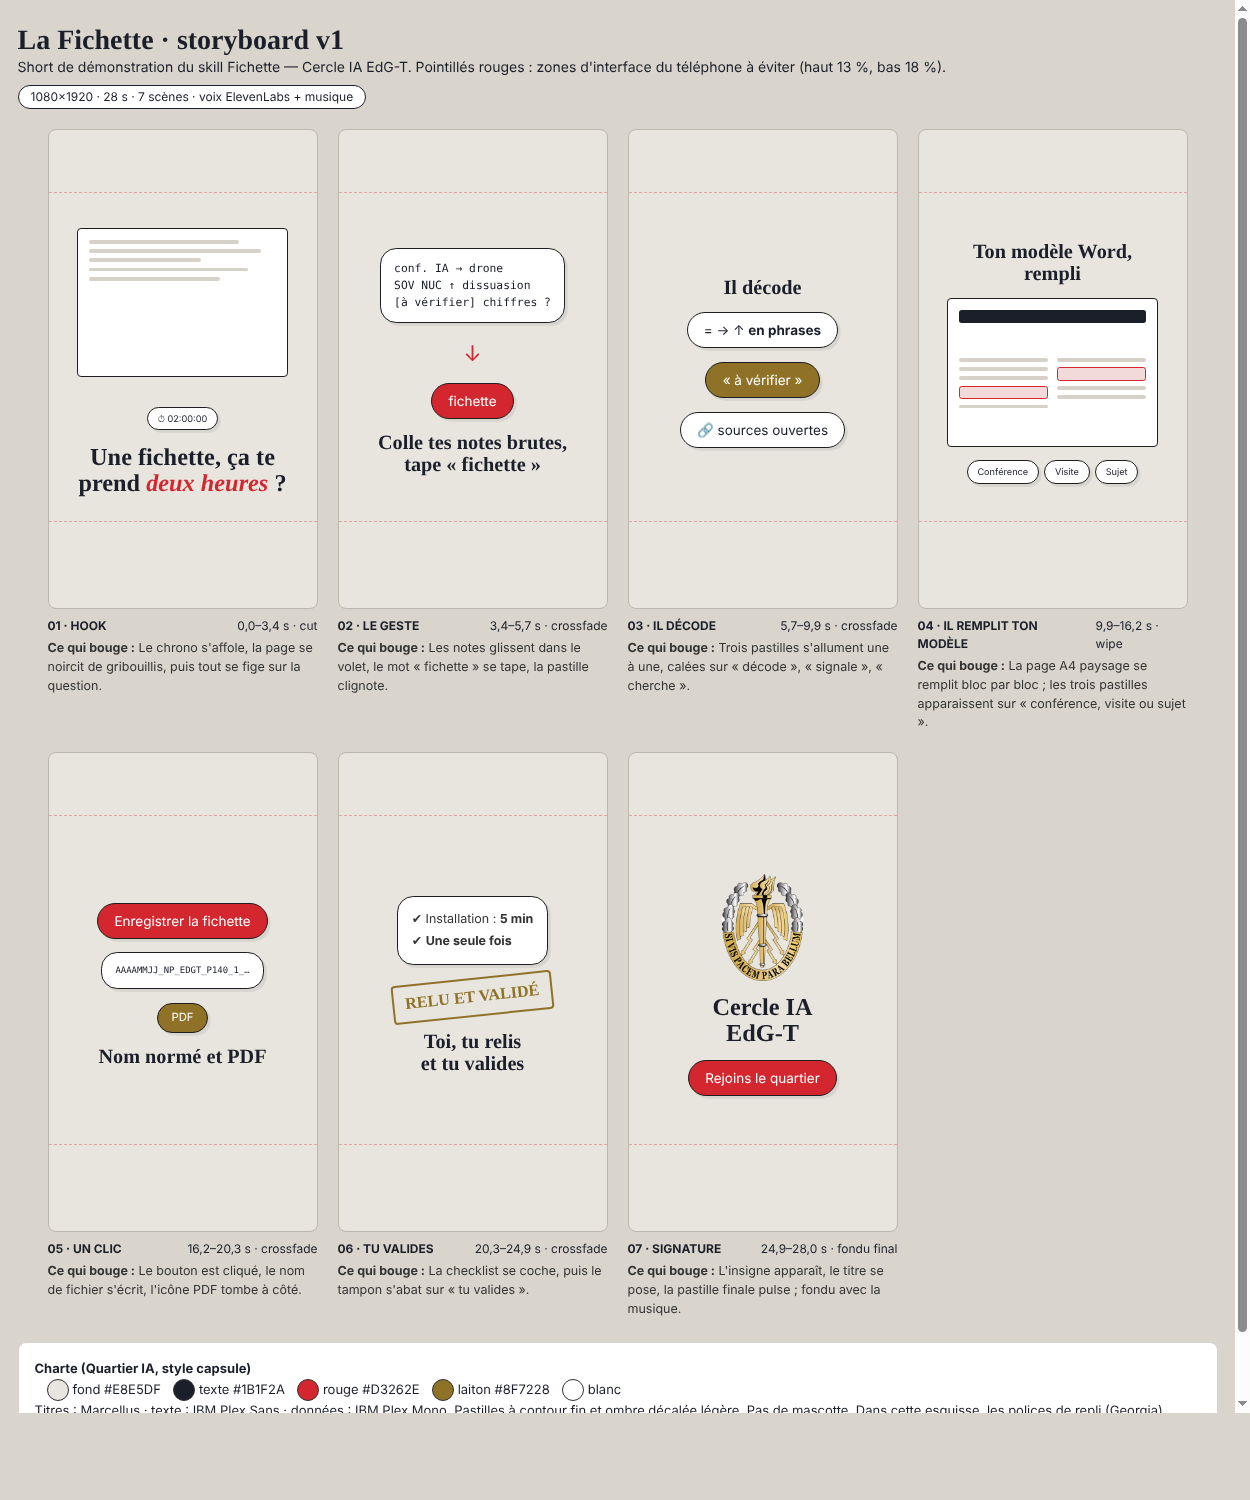
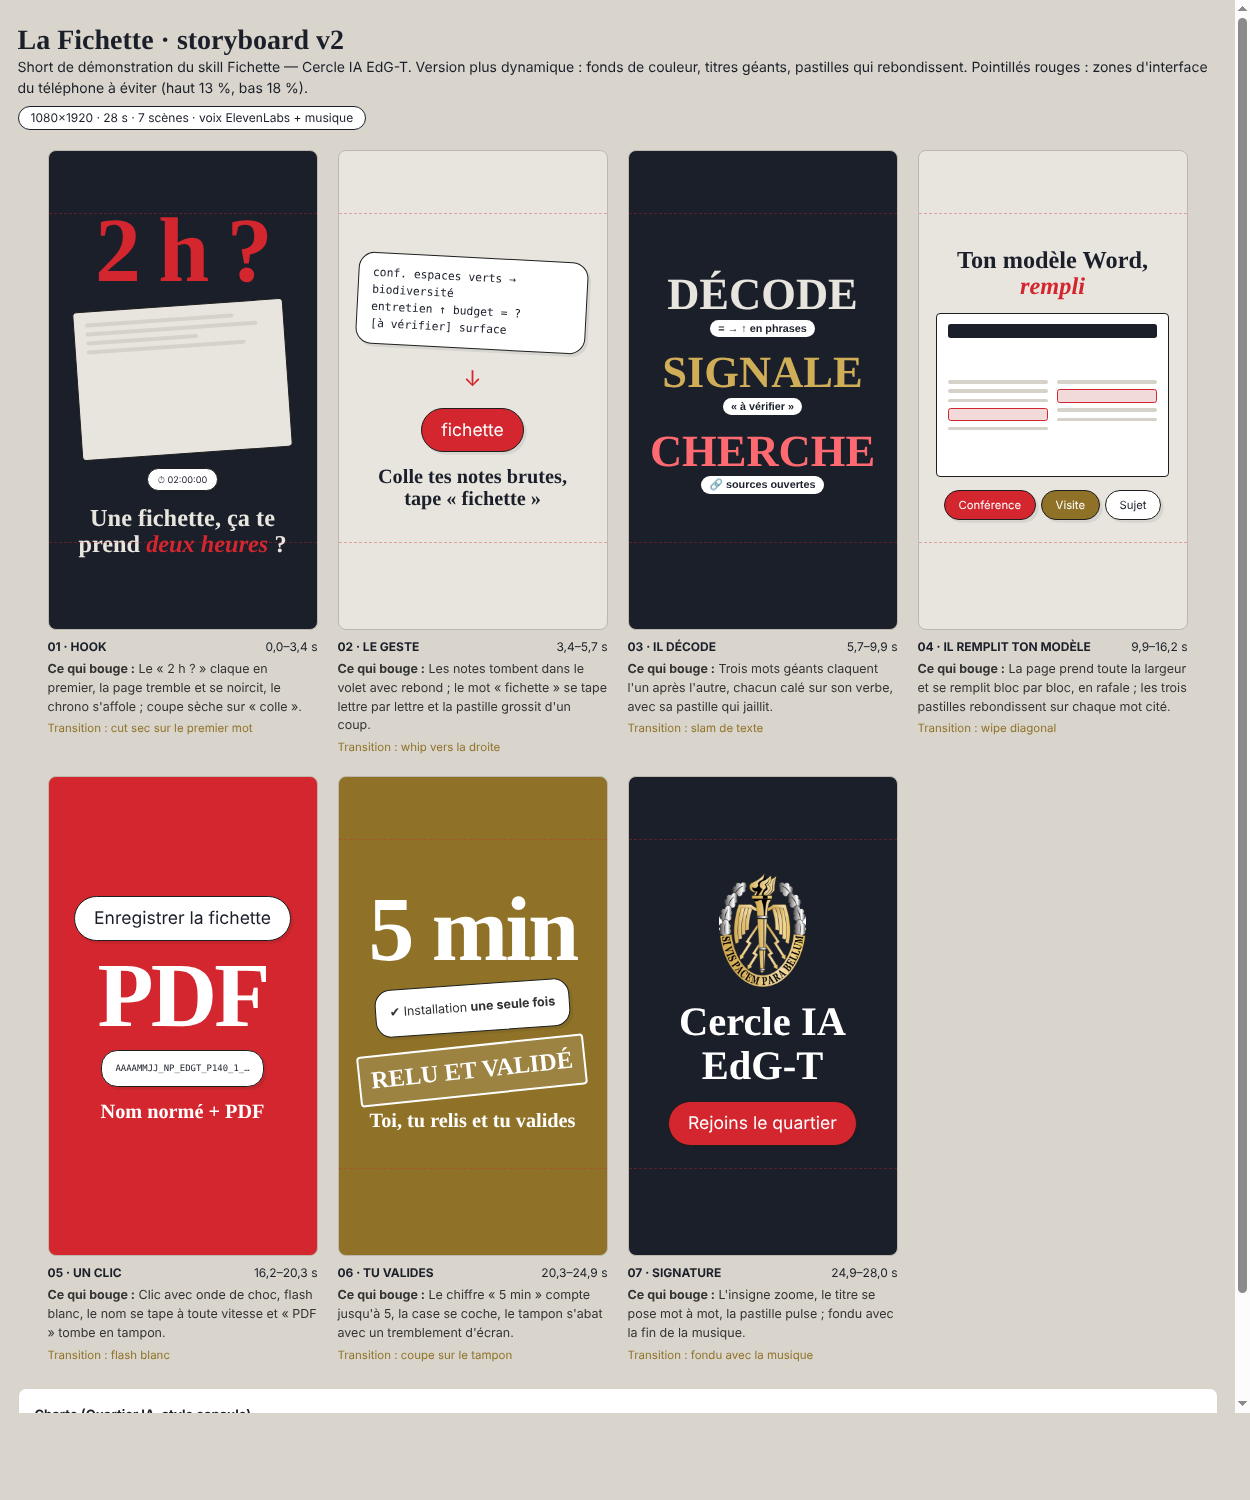
Storyboard v2 plus dynamique, notes d'exemple sur un projet d'espaces verts
Claude-Session: https://claude.ai/code/session_01DbhQfCnpLo6fAbyotZVRMm

diff --git a/videos/fichette-short/storyboard.html b/videos/fichette-short/storyboard.html
@@ -18,7 +18,11 @@ h2{font-family:Marcellus,Georgia,serif;font-weight:700;font-size:calc(9*var(--u)
 .stamp{border:calc(.8*var(--u)) solid var(--gold);color:var(--gold);padding:calc(2*var(--u)) calc(4*var(--u));font-family:Marcellus,serif;font-weight:700;font-size:calc(6*var(--u));transform:rotate(-6deg);border-radius:calc(1.5*var(--u))}
 figcaption{display:flex;justify-content:space-between;gap:8px;font-size:12px;margin-top:8px}figure p{font-size:12.5px;margin:4px 0 0;color:#333}
 .tokens{max-width:1200px;margin:24px auto 0;background:#fff;border:1px solid var(--line);border-radius:8px;padding:16px;font-size:13px}.sw{display:inline-block;width:22px;height:22px;border-radius:50%;border:1px solid #333;vertical-align:middle;margin:0 4px 0 12px}
-</style>
-<header><h1>La Fichette · storyboard v1</h1><div>Short de démonstration du skill Fichette — Cercle IA EdG-T. Pointillés rouges : zones d'interface du téléphone à éviter (haut 13 %, bas 18 %).</div><span class="tag">1080×1920 · 28 s · 7 scènes · voix ElevenLabs + musique</span></header>
-<div class="grid"><figure id="frame-01"><div class="cell"><div class="safe"></div><div class="a4"><i style="width:80%"></i><i style="width:92%"></i><i style="width:60%"></i><i style="width:85%"></i><i style="width:70%"></i></div><div class="pill sm" style="margin-top:calc(6*var(--u))">⏱ 02:00:00</div><h2>Une fichette, ça te prend <em>deux heures</em> ?</h2></div><figcaption><span><b>01 · HOOK</b></span><span>0,0–3,4 s · cut</span></figcaption><p><b>Ce qui bouge :</b> Le chrono s'affole, la page se noircit de gribouillis, puis tout se fige sur la question.</p></figure><figure id="frame-02"><div class="cell"><div class="safe"></div><div class="card mono">conf. IA → drone<br>SOV NUC ↑ dissuasion<br>[à vérifier] chiffres ?</div><div class="arrow">↓</div><div class="pill red lg">fichette</div><h2 class="s">Colle tes notes brutes,<br>tape « fichette »</h2></div><figcaption><span><b>02 · LE GESTE</b></span><span>3,4–5,7 s · crossfade</span></figcaption><p><b>Ce qui bouge :</b> Les notes glissent dans le volet, le mot « fichette » se tape, la pastille clignote.</p></figure><figure id="frame-03"><div class="cell"><div class="safe"></div><h2 class="s">Il décode</h2><div class="pill lg">= → ↑ <b>en phrases</b></div><div class="pill lg gold">« à vérifier »</div><div class="pill lg">🔗 sources ouvertes</div></div><figcaption><span><b>03 · IL DÉCODE</b></span><span>5,7–9,9 s · crossfade</span></figcaption><p><b>Ce qui bouge :</b> Trois pastilles s'allument une à une, calées sur « décode », « signale », « cherche ».</p></figure><figure id="frame-04"><div class="cell"><div class="safe"></div><h2 class="s">Ton modèle Word,<br>rempli</h2><div class="a4 two"><b></b><div class="col"><i></i><i></i><i></i><i class="box"></i><i></i></div><div class="col"><i></i><i class="box"></i><i></i><i></i></div></div><div class="row"><span class="pill sm">Conférence</span><span class="pill sm">Visite</span><span class="pill sm">Sujet</span></div></div><figcaption><span><b>04 · IL REMPLIT TON MODÈLE</b></span><span>9,9–16,2 s · wipe</span></figcaption><p><b>Ce qui bouge :</b> La page A4 paysage se remplit bloc par bloc ; les trois pastilles apparaissent sur « conférence, visite ou sujet ».</p></figure><figure id="frame-05"><div class="cell"><div class="safe"></div><div class="pill red lg">Enregistrer la fichette</div><div class="card mono sm">AAAAMMJJ_NP_EDGT_P140_1_…</div><div class="pill gold">PDF</div><h2 class="s">Nom normé et PDF</h2></div><figcaption><span><b>05 · UN CLIC</b></span><span>16,2–20,3 s · crossfade</span></figcaption><p><b>Ce qui bouge :</b> Le bouton est cliqué, le nom de fichier s'écrit, l'icône PDF tombe à côté.</p></figure><figure id="frame-06"><div class="cell"><div class="safe"></div><div class="card"><p>✔ Installation : <b>5 min</b></p><p>✔ <b>Une seule fois</b></p></div><div class="stamp">RELU ET VALIDÉ</div><h2 class="s">Toi, tu relis<br>et tu valides</h2></div><figcaption><span><b>06 · TU VALIDES</b></span><span>20,3–24,9 s · crossfade</span></figcaption><p><b>Ce qui bouge :</b> La checklist se coche, puis le tampon s'abat sur « tu valides ».</p></figure><figure id="frame-07"><div class="cell"><div class="safe"></div><img src="public/logo-edg.png" alt="insigne EdG" style="width:calc(30*var(--u))"><h2>Cercle IA<br>EdG-T</h2><div class="pill red lg">Rejoins le quartier</div></div><figcaption><span><b>07 · SIGNATURE</b></span><span>24,9–28,0 s · fondu final</span></figcaption><p><b>Ce qui bouge :</b> L'insigne apparaît, le titre se pose, la pastille finale pulse ; fondu avec la musique.</p></figure></div>
-<section class="tokens"><b>Charte (Quartier IA, style capsule)</b><br><span class="sw" style="background:#E8E5DF"></span>fond #E8E5DF<span class="sw" style="background:#1B1F2A"></span>texte #1B1F2A<span class="sw" style="background:#D3262E"></span>rouge #D3262E<span class="sw" style="background:#8F7228"></span>laiton #8F7228<span class="sw" style="background:#fff"></span>blanc<br>Titres : Marcellus · texte : IBM Plex Sans · données : IBM Plex Mono. Pastilles à contour fin et ombre décalée légère. Pas de mascotte. Dans cette esquisse, les polices de repli (Georgia) remplacent Marcellus ; le rendu final utilisera les vraies polices.</section></html>
+.cell.ink{background:#1B1F2A;color:#E8E5DF}.cell.red{background:#D3262E;color:#fff}.cell.gold{background:#8F7228;color:#fff}.cell.cream{background:#E8E5DF}
+.cell.ink h2,.cell.red h2,.cell.gold h2{color:#E8E5DF}h2.w{color:#fff!important}.giant{font-family:Marcellus,Georgia,serif;font-weight:800;font-size:calc(34*var(--u));line-height:.9;letter-spacing:-.03em}.giant.r{color:#D3262E}.giant.w{color:#fff}
+.slam{font-family:Marcellus,Georgia,serif;font-weight:800;font-size:calc(16.5*var(--u));line-height:1;color:#E8E5DF;display:flex;flex-direction:column;align-items:center}.slam small{font:600 calc(4*var(--u)) 'IBM Plex Sans',sans-serif;background:#fff;color:#1B1F2A;border-radius:99px;padding:calc(1*var(--u)) calc(3*var(--u));margin-top:calc(1*var(--u))}.slam.g{color:#D0AE57}.slam.r{color:#ff6a70}
+.pill.xl{font-size:calc(6.5*var(--u));padding:calc(3*var(--u)) calc(7*var(--u))}.pill.white{background:#fff;color:#1B1F2A}h2.xl{font-size:calc(15*var(--u))}.stamp.big{font-size:calc(9*var(--u));background:rgba(255,255,255,.12);color:#fff;border-color:#fff}
+.tilt{transform:rotate(-4deg)}.tilt2{transform:rotate(3deg)}.a4.big{width:calc(86*var(--u))}.seam{color:#8F7228!important;font-size:11.5px!important}.cell.ink .a4{background:#E8E5DF}
+.pill,.card{color:#1B1F2A}.pill.red,.pill.gold{color:#fff}</style>
+<header><h1>La Fichette · storyboard v2</h1><div>Short de démonstration du skill Fichette — Cercle IA EdG-T. Version plus dynamique : fonds de couleur, titres géants, pastilles qui rebondissent. Pointillés rouges : zones d'interface du téléphone à éviter (haut 13 %, bas 18 %).</div><span class="tag">1080×1920 · 28 s · 7 scènes · voix ElevenLabs + musique</span></header>
+<div class="grid"><figure id="frame-01"><div class="cell ink"><div class="safe"></div><div class="giant r">2 h&nbsp;?</div><div class="a4 tilt"><i style="width:80%"></i><i style="width:92%"></i><i style="width:60%"></i><i style="width:85%"></i></div><div class="pill sm">⏱ 02:00:00</div><h2>Une fichette, ça te prend <em>deux heures</em>&nbsp;?</h2></div><figcaption><span><b>01 · HOOK</b></span><span>0,0–3,4 s</span></figcaption><p><b>Ce qui bouge :</b> Le « 2 h ? » claque en premier, la page tremble et se noircit, le chrono s'affole ; coupe sèche sur « colle ».</p><p class="seam">Transition : cut sec sur le premier mot</p></figure><figure id="frame-02"><div class="cell cream"><div class="safe"></div><div class="card mono tilt2">conf. espaces verts → biodiversité<br>entretien ↑ budget = ?<br>[à vérifier] surface</div><div class="arrow">↓</div><div class="pill red xl">fichette</div><h2 class="s">Colle tes notes brutes,<br>tape « fichette »</h2></div><figcaption><span><b>02 · LE GESTE</b></span><span>3,4–5,7 s</span></figcaption><p><b>Ce qui bouge :</b> Les notes tombent dans le volet avec rebond ; le mot « fichette » se tape lettre par lettre et la pastille grossit d'un coup.</p><p class="seam">Transition : whip vers la droite</p></figure><figure id="frame-03"><div class="cell ink"><div class="safe"></div><div class="slam">DÉCODE<small>= → ↑ en phrases</small></div><div class="slam g">SIGNALE<small>« à vérifier »</small></div><div class="slam r">CHERCHE<small>🔗 sources ouvertes</small></div></div><figcaption><span><b>03 · IL DÉCODE</b></span><span>5,7–9,9 s</span></figcaption><p><b>Ce qui bouge :</b> Trois mots géants claquent l'un après l'autre, chacun calé sur son verbe, avec sa pastille qui jaillit.</p><p class="seam">Transition : slam de texte</p></figure><figure id="frame-04"><div class="cell cream"><div class="safe"></div><h2>Ton modèle Word, <em>rempli</em></h2><div class="a4 two big"><b></b><div class="col"><i></i><i></i><i></i><i class="box"></i><i></i></div><div class="col"><i></i><i class="box"></i><i></i><i></i></div></div><div class="row"><span class="pill red">Conférence</span><span class="pill gold">Visite</span><span class="pill">Sujet</span></div></div><figcaption><span><b>04 · IL REMPLIT TON MODÈLE</b></span><span>9,9–16,2 s</span></figcaption><p><b>Ce qui bouge :</b> La page prend toute la largeur et se remplit bloc par bloc, en rafale ; les trois pastilles rebondissent sur chaque mot cité.</p><p class="seam">Transition : wipe diagonal</p></figure><figure id="frame-05"><div class="cell red"><div class="safe"></div><div class="pill xl white">Enregistrer la fichette</div><div class="giant w">PDF</div><div class="card mono sm">AAAAMMJJ_NP_EDGT_P140_1_…</div><h2 class="w s">Nom normé + PDF</h2></div><figcaption><span><b>05 · UN CLIC</b></span><span>16,2–20,3 s</span></figcaption><p><b>Ce qui bouge :</b> Clic avec onde de choc, flash blanc, le nom se tape à toute vitesse et « PDF » tombe en tampon.</p><p class="seam">Transition : flash blanc</p></figure><figure id="frame-06"><div class="cell gold"><div class="safe"></div><div class="giant w">5 min</div><div class="card tilt"><p>✔ Installation <b>une seule fois</b></p></div><div class="stamp big">RELU ET VALIDÉ</div><h2 class="w s">Toi, tu relis et tu valides</h2></div><figcaption><span><b>06 · TU VALIDES</b></span><span>20,3–24,9 s</span></figcaption><p><b>Ce qui bouge :</b> Le chiffre « 5 min » compte jusqu'à 5, la case se coche, le tampon s'abat avec un tremblement d'écran.</p><p class="seam">Transition : coupe sur le tampon</p></figure><figure id="frame-07"><div class="cell ink"><div class="safe"></div><img src="public/logo-edg.png" alt="insigne EdG" style="width:calc(32*var(--u))"><h2 class="w xl">Cercle IA<br>EdG-T</h2><div class="pill red xl">Rejoins le quartier</div></div><figcaption><span><b>07 · SIGNATURE</b></span><span>24,9–28,0 s</span></figcaption><p><b>Ce qui bouge :</b> L'insigne zoome, le titre se pose mot à mot, la pastille pulse ; fondu avec la fin de la musique.</p><p class="seam">Transition : fondu avec la musique</p></figure></div><section class="tokens"><b>Charte (Quartier IA, style capsule)</b><br><span class="sw" style="background:#E8E5DF"></span>fond #E8E5DF<span class="sw" style="background:#1B1F2A"></span>texte #1B1F2A<span class="sw" style="background:#D3262E"></span>rouge #D3262E<span class="sw" style="background:#8F7228"></span>laiton #8F7228<span class="sw" style="background:#fff"></span>blanc<br>Titres : Marcellus · texte : IBM Plex Sans · données : IBM Plex Mono. Pastilles à contour fin et ombre décalée légère. Pas de mascotte. Dans cette esquisse, les polices de repli (Georgia) remplacent Marcellus ; le rendu final utilisera les vraies polices.</section></html>

diff --git a/videos/fichette-short/STORYBOARD.md b/videos/fichette-short/STORYBOARD.md
@@ -25,7 +25,7 @@ narrativeRole: Nommer la corvée que tout le monde connaît. keyMessage: la fich
 - type: pain_point
 - persuasion: promesse simple en une action
 - beat: soulagement
-- scene: Des notes télégraphiques (flèches, abréviations) glissent dans un volet ; le mot « fichette » se tape ; une pastille « Entrée » clignote
+- scene: Des notes télégraphiques sur un projet d'espaces verts (flèches, abréviations) tombent dans un volet ; le mot « fichette » se tape ; une pastille « Entrée » clignote
 - duration: 2.3s
 - transition_in: crossfade
 - status: built
@@ -99,6 +99,8 @@ narrativeRole: Lever les freins (installation, contrôle). keyMessage: installat
 narrativeRole: Signer et inviter. keyMessage: le cercle IA EdG-T, et le Quartier IA pour le rejoindre.
 
 ## Video direction (brouillon)
+
+- Énergie : fonds de couleur pleins alternés (encre, crème, rouge, laiton), titres géants, coupes sèches et wipes, pastilles qui rebondissent, flash et tremblement sur les temps forts. Caler les temps forts sur les temps de la musique (détection des beats à faire au build).
 
 - Charte du Quartier IA, preset capsule : fond crème #E8E5DF, pastilles à contour 2 px, rouge #D3262E, laiton #8F7228, Marcellus + IBM Plex Sans.
 - Musique légère en fond (voir note), voix off fournie par l'utilisateur (Google Flow).
